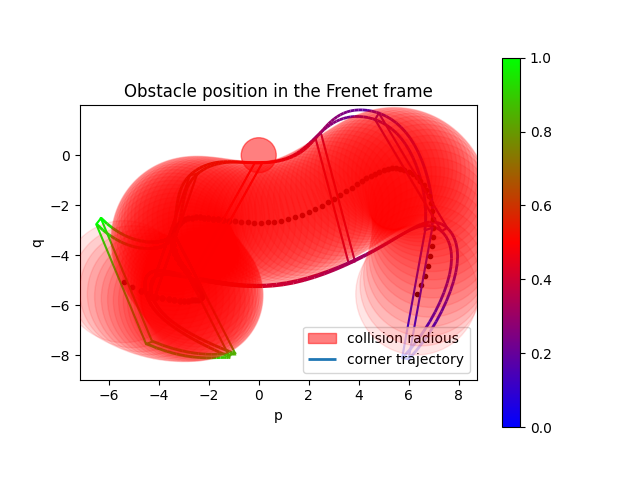
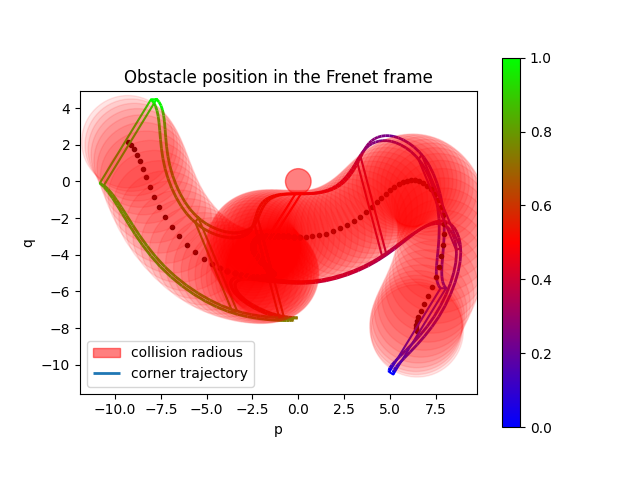
v1.7.5.1 Increased knot intervals for obstacle bspline approximation
At the beginning we generate BSpline trajectories for the corners of the obstacles. With increasing the length of the Frenet path, we have noticed, that the BSpline approximation with 10 knot intervals cannot sufficiently approximate the real movement of the obstacles. As a result, (to be honest, I don't know exactly where), some things went wrong. For example in the case of seed 0, at frame 68-69 one vehicle almost collided...

diff --git a/src/vehicle.py b/src/vehicle.py
@@ -578,7 +578,7 @@ class Vehicle(VehicleBasis):
                 # constraint on pq at t_intermediate
                 self.define_constraint([(p(t_intermediate) - x_intermediate[0])**2, (q(t_intermediate) - x_intermediate[1])**2],
                                         [0, 0],
-                                        [(self.radious*1)**2, (self.radious*1)**2],
+                                        [(self.radious*2)**2, (self.radious*2)**2],
                                         constraint_type='time',
                                         name=["pq_intermediate" + str(i)] * 2)
                 
@@ -621,12 +621,12 @@ class Vehicle(VehicleBasis):
             raise NotImplementedError()
             
         # At the end we should have horizontal speed (or at least no vertical :) )
-        self.define_constraint([q_dot],
-                               [0],
-                               [0],
-                               constraint_type='final',
-                               name=["q_dot_final" + str(i)] * 1)
-            
+        # self.define_constraint([q_dot],
+        #                        [0],
+        #                        [0],
+        #                        constraint_type='final',
+        #                        name=["q_dot_final" + str(i)] * 1)
+        self.J += (p(1) - x_intermediate[0])**2 + (q(1) - x_intermediate[1])**2
         # self.J += self.rho_intermediate * 10000 * (p_dot(t_intermediate)**2 + q_dot(t_intermediate)**2)
         # self.J += self.rho_intermediate * 10000 * (p_dot(1)**2 + q_dot(1)**2)
         
@@ -714,7 +714,7 @@ class Vehicle(VehicleBasis):
                 center_circle = [center, circle_rad]
             
                 tmp_a = self.collision_avoidance_hyperplane([p, q], obst_corners,
-                                                    radious=self.radious * 0.001, name="obst_" + str(i),
+                                                    radious=self.radious * 1, name="obst_" + str(i),
                                                     constraint_type='obstacle',
                                                     center_circle = center_circle)
                 a_list += [tmp_a]
@@ -1435,8 +1435,8 @@ class Vehicle(VehicleBasis):
     def plot_moovie_frames_mooving_horizon(self, ax, horizon_num):
         t_steps = 100     
         self_ID = self.ID
-        self_ID = self.plot_self_ID
-        self_ID = 2
+        # self_ID = self.plot_self_ID
+        # self_ID = 2
         obst_IDX = self.plot_obst_IDX
         horizon_num_original = int(horizon_num)    
         horizon_num = int(horizon_num * self.n_intermediate_ADMM + self.n_intermediate_ADMM - 1)
@@ -1505,7 +1505,8 @@ class Vehicle(VehicleBasis):
         # There is the global time [t_start, t_end], and there is the local time t \in [0, 1]
         # We want to plot a line for every time instance in the local time, which is actually associated with a global time. Just like we did
         # for x, y before. But don't forget, that in that case we plotted dots, and now we plot lines.
-        if self.ID == self_ID:
+        # if self.ID == self_ID:
+        if False:
             
             # plot hyperplanes
             t = np.linspace(0.001, 1-0.001, 100)

diff --git a/ACC_example_2_multi_seed.py b/ACC_example_2_multi_seed.py
@@ -146,7 +146,7 @@ def run_optimizaiton(seed):
     "n_steps = math.floor(1 / group.vehicles[0].t_step)"
     # n_steps = 10
     group.set_var({'n_intermediate_ADMM': n_intermediate_ADMM})
-    group.set_var({'t_step': 0.04})
+    group.set_var({'t_step': 0.01})
     group.set_var({'t_window_size': 0.12})
     group.set_var({'t_end': 0 + 0.12})
     group.set_var({'knot_intervals': 5})
@@ -172,15 +172,15 @@ def run_optimizaiton(seed):
     
     
     "Changing default rotation for initial position"
-    positions = group.ellipse_generator(centerpoint = start_position, n_positions = len(group.vehicles), a = group.vehicles[0].radious * 9 * 0.8, b = group.vehicles[0].radious * 5 * 0.8,
-                                               ellipse_rotation = math.pi / 2 * 2)
+    positions = group.ellipse_generator(centerpoint = start_position, n_positions = len(group.vehicles), a = group.vehicles[0].radious * 9, b = group.vehicles[0].radious * 5,
+                                               ellipse_rotation = math.pi / 2)
     for i in range(len(group.vehicles)):
             group.vehicles[i].set_position(position = positions[i], position_type = 'initial')
             
             
     "Changing default rotation for final position"
-    positions = group.ellipse_generator(centerpoint = goal_position, n_positions = len(group.vehicles), a = group.vehicles[0].radious * 9 * 0.8, b = group.vehicles[0].radious * 5 * 0.8,
-                                               ellipse_rotation = math.pi / 2 * 2)
+    positions = group.ellipse_generator(centerpoint = goal_position, n_positions = len(group.vehicles), a = group.vehicles[0].radious * 9 * 0.8, b = group.vehicles[0].radious * 5,
+                                               ellipse_rotation = math.pi / 2)
     for i in range(len(group.vehicles)):
             group.vehicles[i].set_position(position = positions[i], position_type = 'final')
     
@@ -262,8 +262,8 @@ def run_optimizaiton(seed):
 
 
 if __name__ == '__main__':
-    with ProcessPoolExecutor(max_workers=4) as pool:
-        futures = [pool.submit(run_optimizaiton, seed) for seed in range(4)]
+    with ProcessPoolExecutor(max_workers=1) as pool:
+        futures = [pool.submit(run_optimizaiton, seed) for seed in range(1)]
         res = [f.result() for f in as_completed(futures)]
     
 

diff --git a/src/obstacle.py b/src/obstacle.py
@@ -40,6 +40,8 @@ class Obstacle(Environment):
         self.spline_position_in_frenet() # This function creates the self.corners_spline values.
         self.gate_pair_ID = []
         
+        # self.plot_corners_spline()
+        
         
         
         
@@ -112,7 +114,7 @@ class Obstacle(Environment):
         # ---- Regular corners
         corners_spline_coeffs = []
         t = np.linspace(0, 1, 100)
-        self.fitter.knot_intervals = 10
+        self.fitter.knot_intervals = 20
         for i in range(len(self.corners)):
             corner_ = np.array([self.fp.inertial_to_frenet(self.corners[i][0], self.corners[i][1], t_) for t_ in t])
             p_ = corner_[:, 0].tolist()
@@ -133,7 +135,7 @@ class Obstacle(Environment):
         # ---- Scaled corners
         scaled_corners_spline_coeffs = []
         t = np.linspace(0, 1, 100)
-        self.fitter.knot_intervals = 10
+        self.fitter.knot_intervals = 20
         for i in range(len(self.scaled_corners)):
             corner_ = np.array([self.fp.inertial_to_frenet(self.scaled_corners[i][0], self.scaled_corners[i][1], t_) for t_ in t])
             p_ = corner_[:, 0].tolist()
@@ -155,7 +157,7 @@ class Obstacle(Environment):
         # ---- Virtual center "corner/circle" with virtual "radious"
         center_spline_coeffs = []
         t = np.linspace(0, 1, 100)
-        self.fitter.knot_intervals = 10
+        self.fitter.knot_intervals = 20
         center = self.center
         corner_ = np.array([self.fp.inertial_to_frenet(center[0], center[1], t_) for t_ in t])
         p_ = corner_[:, 0].tolist()

diff --git a/ACC_example_2.py b/ACC_example_2.py
@@ -134,7 +134,7 @@ def run_optimizaiton(corners_list, start_position, goal_position, min_iterations
     # obstacles = group.generate_obstacles()
     # group.add_obstacles(obstacles)
     
-    obstacles = group.generate_obstacles(42)
+    obstacles = group.generate_obstacles(0)
     group.add_obstacles(obstacles)
     group.organise_neighbours()
     
@@ -144,7 +144,7 @@ def run_optimizaiton(corners_list, start_position, goal_position, min_iterations
     "n_steps = math.floor(1 / group.vehicles[0].t_step)"
     # n_steps = 10
     group.set_var({'n_intermediate_ADMM': n_intermediate_ADMM})
-    group.set_var({'t_step': 0.04})
+    group.set_var({'t_step': 0.01})
     group.set_var({'t_window_size': 0.12})
     group.set_var({'t_end': 0 + 0.12})
     group.set_var({'knot_intervals': 5})
